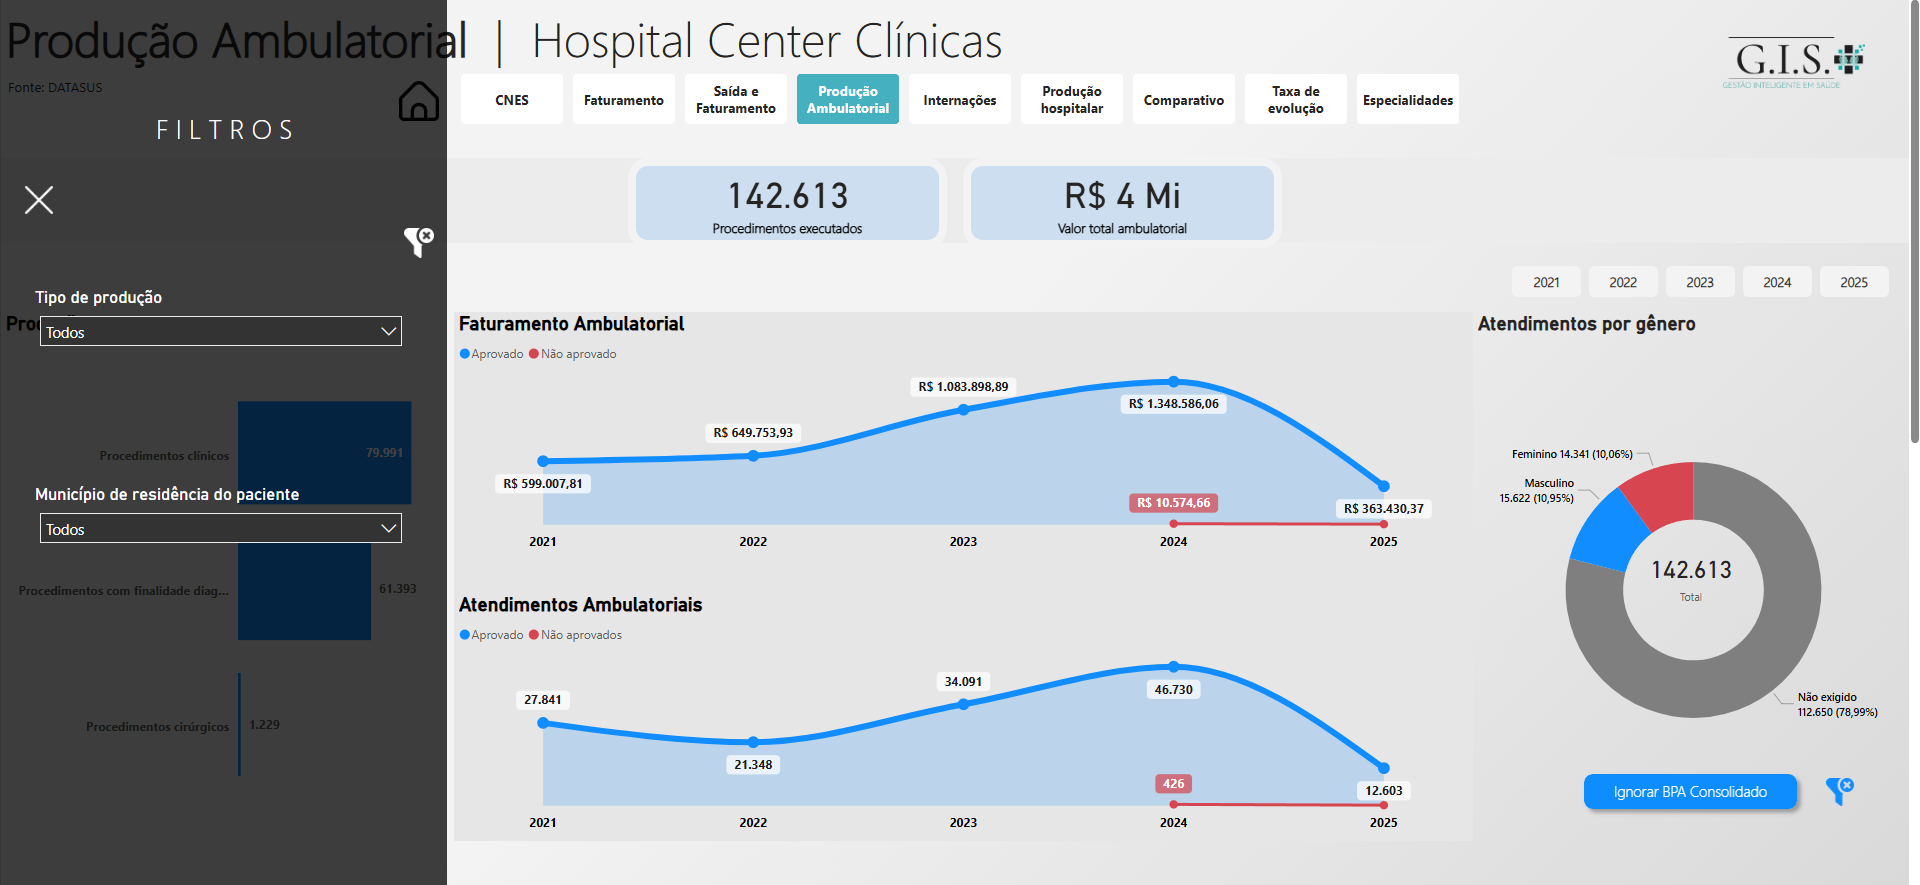
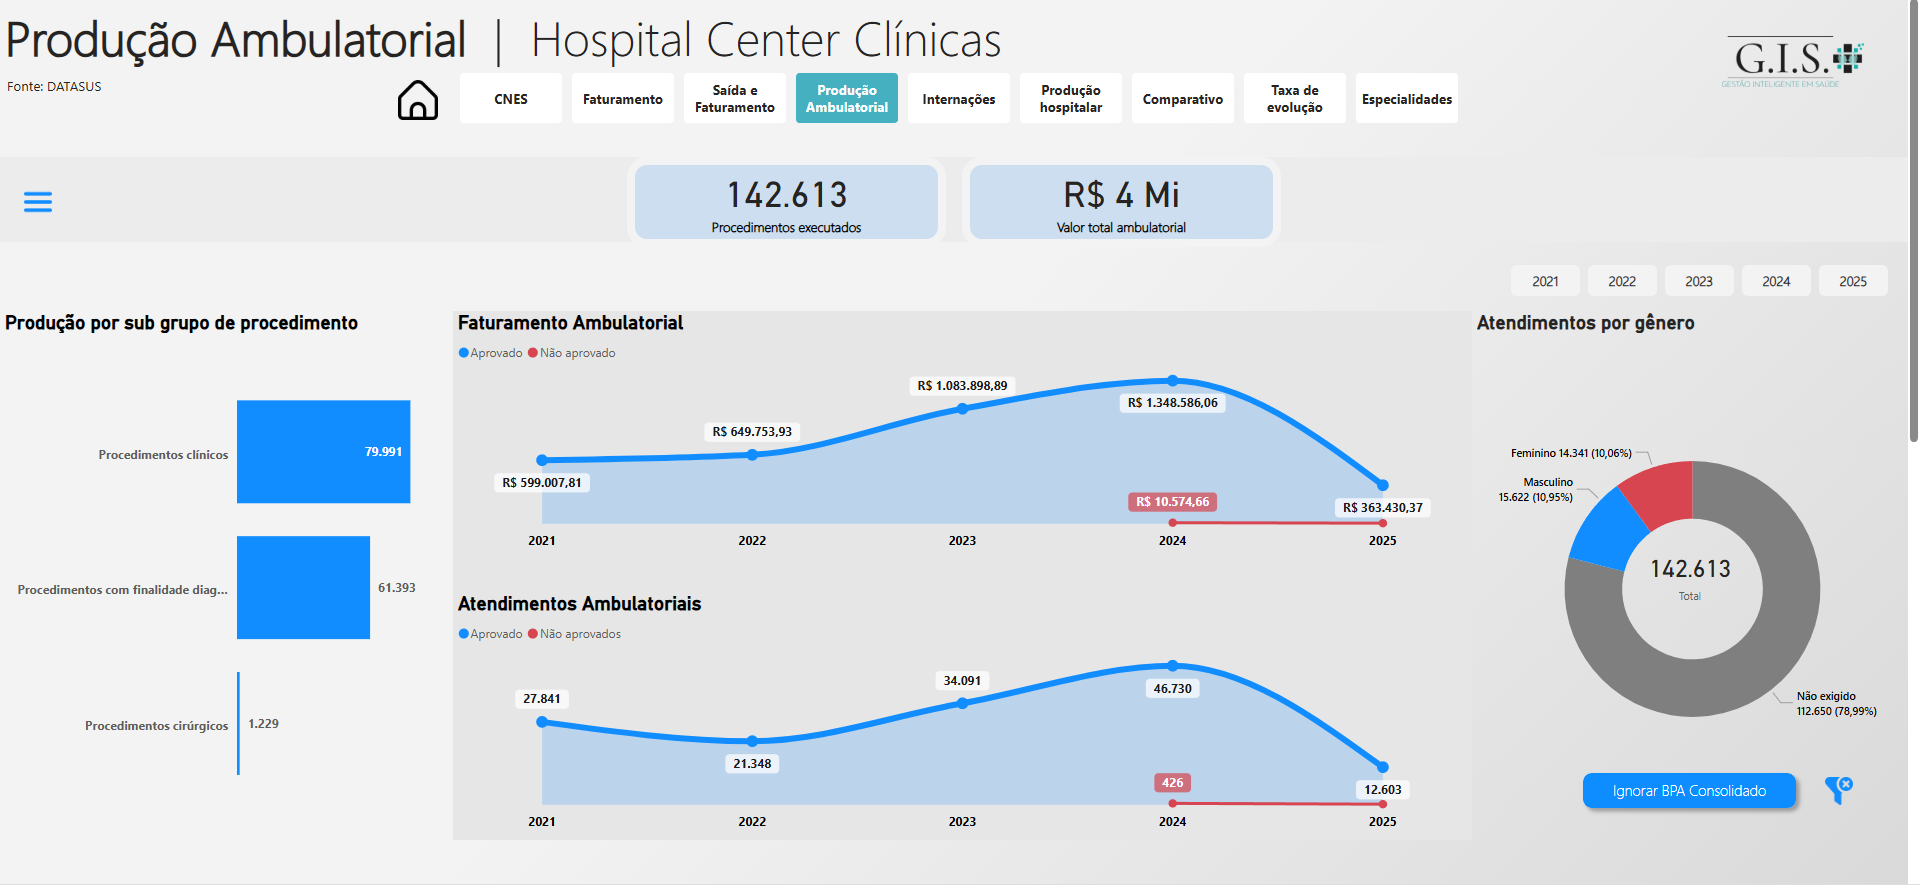
Atualização Sobre Mim
Texto real no Sobre e imagem de filtro fechado em faturamento

diff --git a/index.html b/index.html
@@ -201,9 +201,9 @@
             <div class="flex flex-col md:flex-row items-center">
                 <div class="md:w-1/2 mb-8 md:mb-0 md:pr-12">
                     <h2 class="text-3xl font-bold mb-6 text-gray-800">Sobre Mim</h2>
-                    <p class="text-gray-600 mb-4">Sou um analista de dados apaixonado por transformar informações brutas em insights acionáveis através de visualizações claras e impactantes.</p>
-                    <p class="text-gray-600 mb-4">Com mais de 5 anos de experiência em Power BI, domino todo o fluxo de trabalho com dados, desde a coleta e limpeza até a modelagem e criação de dashboards interativos.</p>
-                    <p class="text-gray-600 mb-6">Meu objetivo é ajudar empresas a tomar decisões baseadas em dados através de relatórios que contam histórias e destacam o que realmente importa.</p>
+                    <p class="text-gray-600 mb-4">Trabalho na área da informação em saúde desde 2018, inicialmente como consultor em sistemas SUS, mas desde 2020 venho atuando também na coleta, tratamento, manipulação e análise de dados pra criação de dashboards.
+                    <p class="text-gray-600 mb-4">Em 2022 notei que dashboards em Excel, ainda que dinâmicos e avançados, limitavam a escalabilidade de estudos mais complexos. Desde então, venho me especializando em Power BI, o que elevou significativamente a qualidade do meu produto.</p>
+                    <p class="text-gray-600 mb-4">Paralelo a isso, depois muito tempo escrevendo automações em VBA, a necessidade de manipular volumes massivos de dados para criação de relatórios e dashboards me direcionou a aprender sobre automação  em Python, o que otimizou processos e me proporcionou maior autonomia em diversas frentes de trabalho, aumentando a eficiência em diferentes setores das empresas onde atuei.</p>
                     <div class="flex space-x-4">
                         <div class="bg-purple-100 text-purple-800 px-4 py-2 rounded-lg">
                             <i class="fas fa-check-circle mr-2"></i> Power BI
@@ -212,7 +212,7 @@
                             <i class="fas fa-check-circle mr-2"></i> DAX
                         </div>
                         <div class="bg-purple-100 text-purple-800 px-4 py-2 rounded-lg">
-                            <i class="fas fa-check-circle mr-2"></i> SQL
+                            <i class="fas fa-check-circle mr-2"></i> Python
                         </div>
                     </div>
                 </div>
